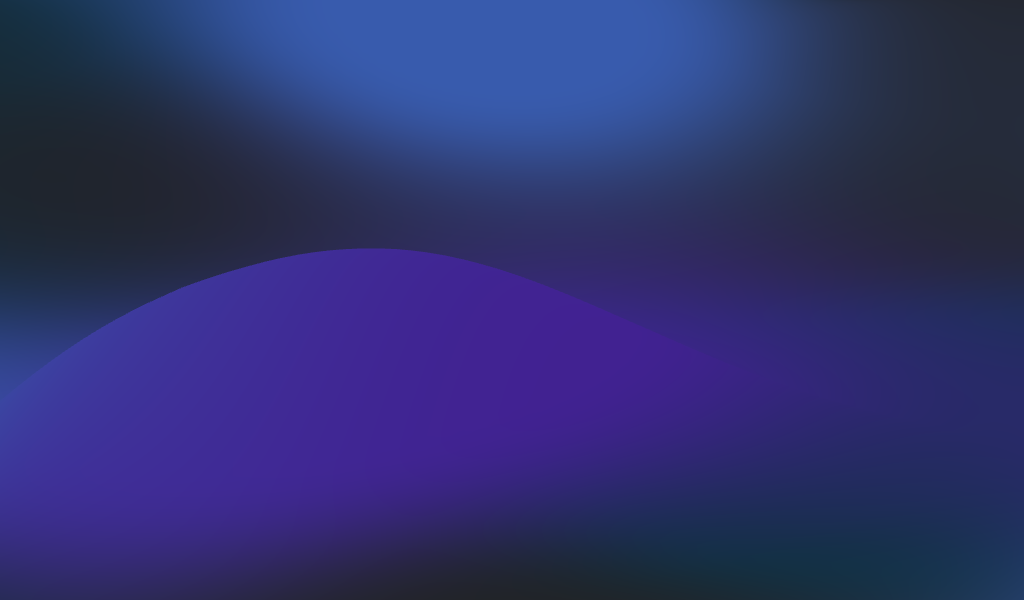
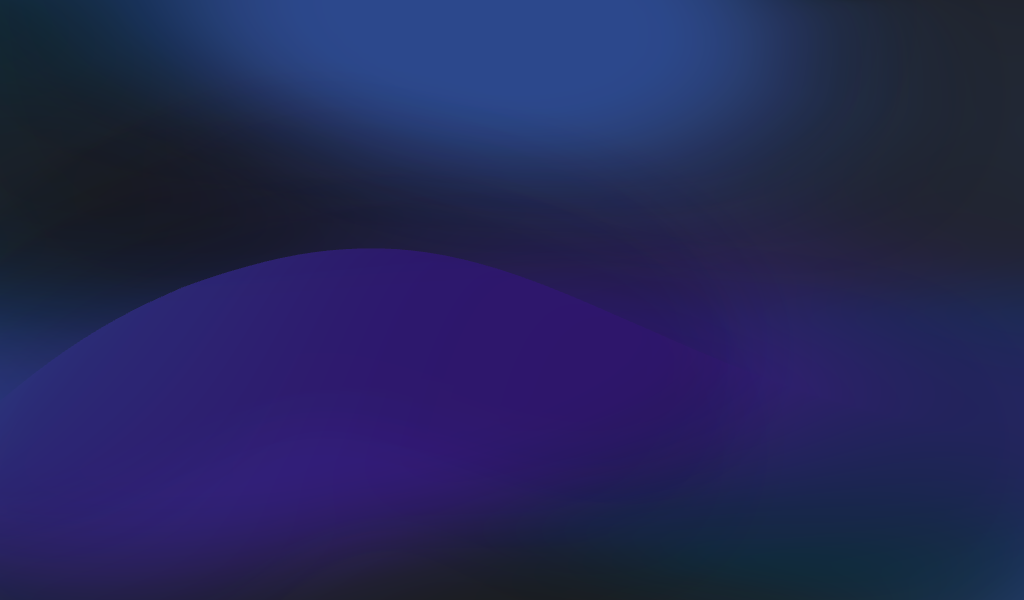
added background fadebetween

diff --git a/src/pages/Home/Home.tsx b/src/pages/Home/Home.tsx
@@ -5,18 +5,22 @@ import FloatingShapesBG from '../../components/FloatingShapesBG/FloatingShapesBG
 import ProjectSection from '../../components/Projects/ProjectSection';
 import ExperienceSection from '../../components/Experience/ExperienceSection';
 import ActivitiesSection from '../../components/Activities/ActivitiesSection';
+import Footer from '../../components/Footer/Footer';
 
 export default function HomePage() {
 
   return (
     <div className="HomePage">
       <FloatingShapesBG />
-      <div className="bg"></div>
+      <div className="bg first"></div>
+      <div className="bg second"></div>
+      <div className="bg third"></div>
+
       <HeroSection />
 
       <br />
       <div className="about">
-        I'm a software developer & CS student based in Jamaica <img src={jmFlag} alt="" />, with a passion for art and UI design. <br />
+        I'm a software developer & Computer Science student based in Jamaica <img src={jmFlag} alt="" />, with a passion for art and design. <br />
         I enjoy creating and learning new things.
       </div>
       <br />
@@ -24,6 +28,7 @@ export default function HomePage() {
       <ProjectSection />
       <ExperienceSection />
       <ActivitiesSection />
+      <Footer />
     </div>
   )
 }

diff --git a/src/pages/Home/home.scss b/src/pages/Home/home.scss
@@ -6,19 +6,41 @@
     padding: 4px 30px;
     
     .bg{
-        background: url('../../assets/mesh-24.png') no-repeat top left fixed;
-        background-size: cover;
-        position: fixed;
         top: 0;
         left: 0;
         width: 100%;
         height: 100%;
         z-index: -2;
+        
+        &.first{
+            background: url('../../assets/mesh-24.png') no-repeat top left fixed;
+            background-size: cover;
+            position: fixed;
+        }
+        &.second{
+            background: url('../../assets/mesh-523.png') no-repeat top left fixed;
+            background-size: cover;
+            position: fixed;
+            opacity: 0;
+            animation: bgFadeIn 30s 7s ease-in-out infinite;
+        }
+
+        @keyframes bgFadeIn {
+            0% {
+                opacity: 0;
+            }
+            50% {
+                opacity: 1;
+            }
+            100% {
+                opacity: 0;
+            }
+        }
     }
 
     .about{
         text-align: center;
-        padding: 1em 20%;
+        padding: 1em 10%;
 
         img{
             width: 24px;

diff --git a/src/components/Activities/activities.scss b/src/components/Activities/activities.scss
@@ -5,6 +5,7 @@
 
     .content{
         width: clamp(300px, 100%, 1100px);
+        position: relative;
     }
     
     .list{
@@ -17,8 +18,8 @@
             margin: 0.5em;
             border: 1px solid #787878;
             border-radius: 6px;
-            position: relative;
             overflow: hidden;
+            position: relative;
             padding: 15px;
             backdrop-filter: blur(5px);
 
@@ -68,6 +69,25 @@
                     object-fit: contain;
                 }
             }
+        }
+    }
+
+    .arrow{
+        position: absolute;
+        top: 60%;
+        right: 0;
+        transform: translateY(-50%) translateX(30%);
+        width: 40px;
+        height: 40px;
+        border-radius: 50%;
+        background-color: #cecece8e;
+        color: rgb(255, 255, 255);
+        text-align: center;
+
+        i{
+            font-size: 1.5em;
+            font-weight: 600;
+            line-height: 40px;
         }
     }
 }

diff --git a/src/components/Footer/footer.scss b/src/components/Footer/footer.scss
@@ -1,0 +1,34 @@
+.Footer{
+    padding: 80px 10px;
+    display: flex;
+    flex-direction: column;
+    align-items: center;
+
+    .contact{
+        text-align: center;
+
+        p{
+            line-height: 2em;
+        }
+
+        a{
+            color: #fff;
+            text-decoration: none;
+            font-weight: bold;
+            padding: 5px 10px;
+            border-radius: 20px;
+            margin: 6px;
+            background-color: rgba(51, 0, 255, 0.156);
+
+            &:hover{
+                background-color: rgba(61, 155, 255, 0.356)
+            }
+        }
+    }
+
+    .footer{
+        text-align: center;
+        margin-top: 100px;
+        color: gray;
+    }
+}

diff --git a/src/components/Activities/ActivitiesSection.tsx b/src/components/Activities/ActivitiesSection.tsx
@@ -5,7 +5,6 @@ export default function ActivitiesSection() {
     return (
         <div className='ActivitiesSection' id='activities'>
             <div className="content">
-
                 <h1>Activities</h1>
                 <p>My certificates, awards and other activities.</p>
 
@@ -31,6 +30,11 @@ export default function ActivitiesSection() {
                             }
                         </div>
                     )}
+
+                </div>
+
+                <div className="arrow">
+                    <i className="bi-caret-right-fill" />
                 </div>
             </div>
         </div>

diff --git a/src/components/Footer/Footer.tsx b/src/components/Footer/Footer.tsx
@@ -1,0 +1,19 @@
+import './footer.scss'
+
+function Footer() {
+    return (
+        <div className='Footer'>
+            <div className="contact" id='contact'>
+                <h1>Let's talk</h1>
+                {/* <br /> */}
+                <p>Want to get in touch? <br />Email me at <a href="mailto:shawngrant333@gmail.com">shawngrant333@gmail.com</a></p>
+            </div>
+
+            <div className="footer">
+                <p>Designed with 🤍 by yours truly</p>
+            </div>
+        </div>
+    )
+}
+
+export default Footer
